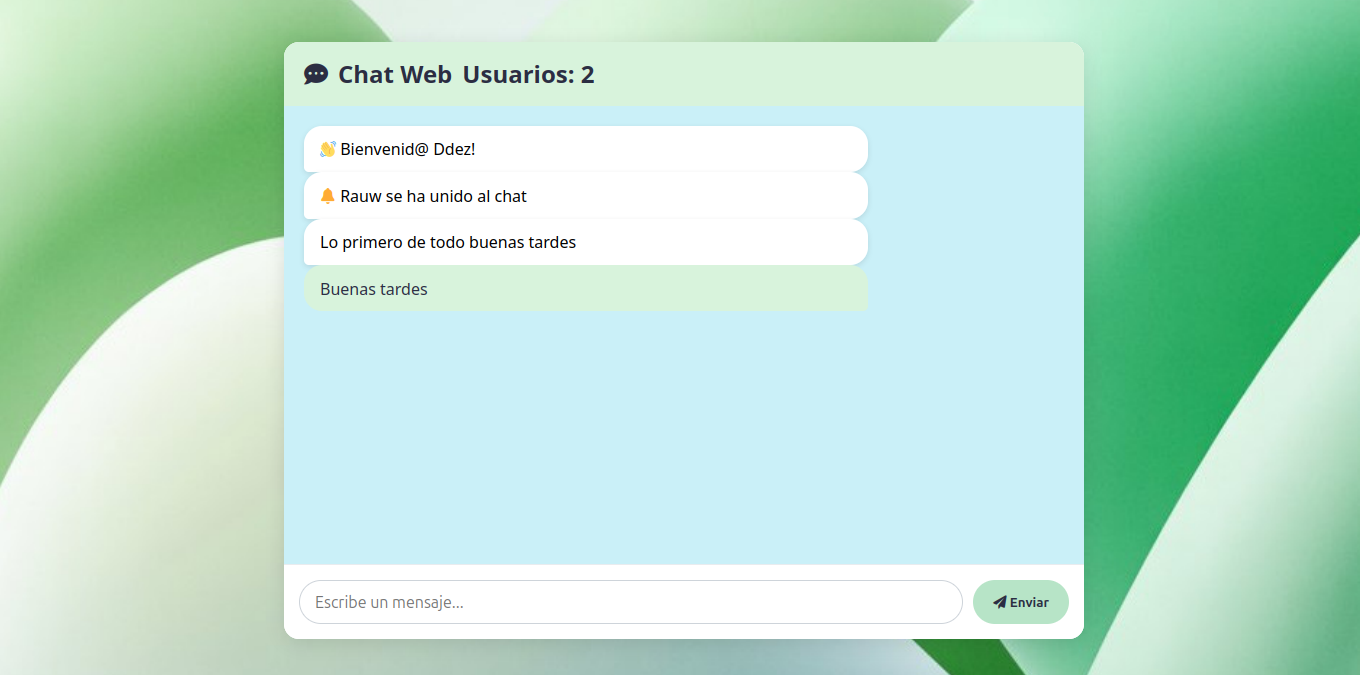
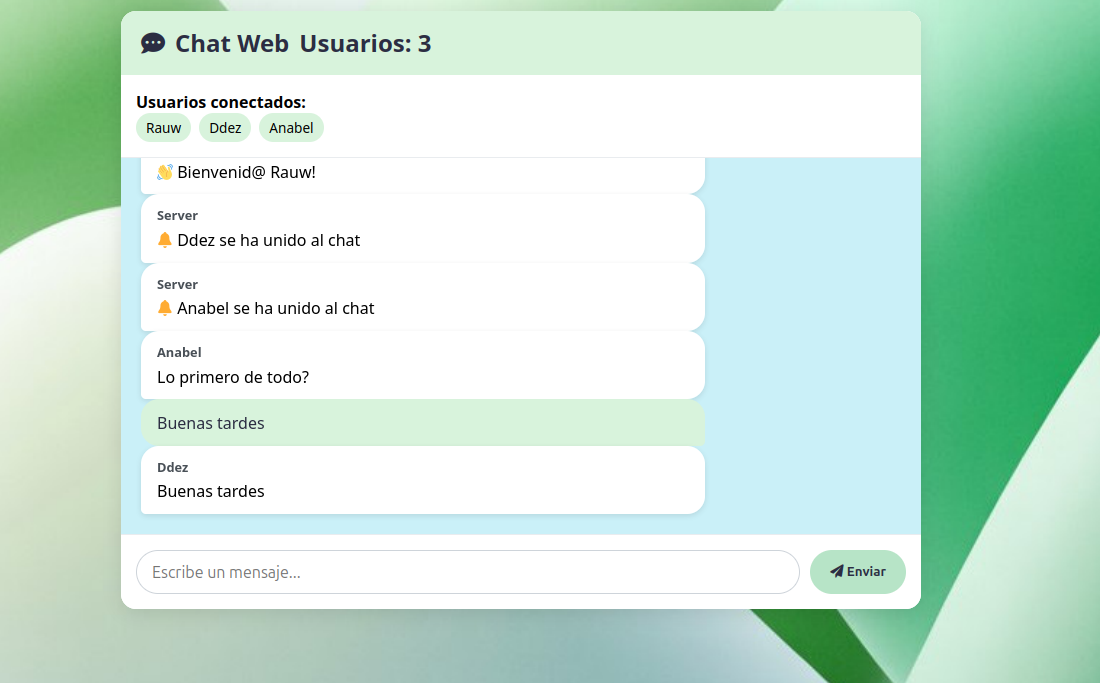
nombre usuarios

diff --git a/P3/public/index.html b/P3/public/index.html
@@ -21,14 +21,21 @@
             <button onclick="setNickname()">Confirmar</button>
         </div>
 
-        <div id="chat"></div>
+        <!-- Lista de usuarios conectados -->
+        <div id="user-list-container" style="display: none;">
+            <strong>Usuarios conectados:</strong>
+            <ul id="user-list"></ul>
+        </div>
+
+        <div id="chat" style="display: none;"></div>
         
-        <div class="input-container">
+        <div class="input-container" style="display: none;">
             <input id="message" placeholder="Escribe un mensaje..." autocomplete="off" />
             <button onclick="sendMessage()">
                 <i class="fas fa-paper-plane"></i> Enviar
             </button>
         </div>
+
         <div id="typing-status"></div>
     </div>
 
@@ -41,23 +48,26 @@
         const nicknameContainer = document.getElementById('nickname-container');
         const typingStatus = document.getElementById('typing-status');
         const onlineUsersElement = document.getElementById('online-users');
+        const userListElement = document.getElementById('user-list');
+        const userListContainer = document.getElementById('user-list-container');
+        const inputContainer = document.querySelector('.input-container');
         let userNickname = '';
         let typingTimeout;
 
-        // Enviar el nickname al servidor
         function setNickname() {
             const nickname = nicknameInput.value.trim();
             if (nickname) {
                 socket.emit('setNickname', nickname);
-                userNickname = nickname;  // Guardar el nickname del usuario
-                nicknameContainer.style.display = 'none'; // Ocultar el formulario de nickname
-                chat.style.display = 'block'; // Mostrar la sección del chat
+                userNickname = nickname;
+                nicknameContainer.style.display = 'none';
+                chat.style.display = 'block';
+                inputContainer.style.display = 'flex';
+                userListContainer.style.display = 'block';
             } else {
                 alert('Por favor, ingresa un nickname.');
             }
         }
 
-        // Enviar mensaje al servidor
         function sendMessage() {
             const msg = input.value.trim();
             if (msg) {
@@ -68,7 +78,6 @@
             }
         }
 
-        // Manejar cuando el usuario está escribiendo
         input.addEventListener('input', () => {
             if (input.value.trim()) {
                 socket.emit('typing');
@@ -85,19 +94,24 @@
             const messageDiv = document.createElement('div');
             messageDiv.className = 'message';
 
-            // Si el mensaje fue enviado por el propio usuario, lo alineamos a la derecha
             if (msg.sender === userNickname) {
-                messageDiv.classList.add('message-outgoing');  // Mensaje enviado por el cliente
+                messageDiv.classList.add('message-outgoing');
             } else {
-                messageDiv.classList.add('message-incoming');  // Mensaje recibido de otro usuario
+                messageDiv.classList.add('message-incoming');
+                const senderName = document.createElement('div');
+                senderName.textContent = msg.sender || 'Server';
+                senderName.className = 'sender-name';
+                messageDiv.appendChild(senderName);
             }
 
-            messageDiv.innerHTML = msg.text || msg;
+            const messageText = document.createElement('div');
+            messageText.textContent = msg.text || msg;
+            messageDiv.appendChild(messageText);
+
             chat.appendChild(messageDiv);
             chat.scrollTop = chat.scrollHeight;
         });
 
-        // Mostrar cuando alguien está escribiendo
         socket.on('userTyping', (nickname) => {
             typingStatus.textContent = `${nickname} está escribiendo...`;
             setTimeout(() => {
@@ -111,12 +125,19 @@
             typingStatus.textContent = '';
         });
 
-        // Actualizar contador de usuarios conectados
         socket.on('updateUsers', (count) => {
             onlineUsersElement.textContent = `Usuarios: ${count}`;
         });
 
-        // Auto-focus al cargar
+        socket.on('userList', (users) => {
+            userListElement.innerHTML = '';
+            users.forEach(user => {
+                const li = document.createElement('li');
+                li.textContent = user;
+                userListElement.appendChild(li);
+            });
+        });
+
         window.addEventListener('load', () => {
             nicknameInput.focus();
         });

diff --git a/P3/server.js b/P3/server.js
@@ -23,7 +23,6 @@ app.use((req, res, next) => {
     next();
 });
 
-// Ignora favicon
 app.get('/favicon.ico', (req, res) => res.status(204).end());
 
 const server = http.createServer(app);
@@ -33,15 +32,19 @@ let connectedUsers = 0;
 
 app.use(express.static('public'));
 
+// Emitir lista actual de nicknames a todos
+function emitUserList() {
+    const userList = Object.values(nicknames);
+    io.emit('userList', userList);
+}
+
 io.on('connection', (socket) => {
     connectedUsers++;
     io.emit('updateUsers', connectedUsers);
 
-    // Espera a que el cliente envíe su nickname
     socket.on('setNickname', (nickname) => {
         nicknames[socket.id] = nickname;
 
-        // Mensajes de bienvenida
         socket.emit('message', {
             type: 'system',
             text: `👋 Bienvenid@ ${nickname}!`
@@ -52,10 +55,10 @@ io.on('connection', (socket) => {
             text: `🔔 ${nickname} se ha unido al chat`
         });
 
+        emitUserList();
         io.emit('updateUsers', connectedUsers);
     });
 
-    // Manejar cuando un usuario está escribiendo
     socket.on('typing', () => {
         const nickname = nicknames[socket.id];
         if (nickname && !typingUsers.has(nickname)) {
@@ -64,7 +67,6 @@ io.on('connection', (socket) => {
         }
     });
 
-    // Manejar cuando un usuario deja de escribir
     socket.on('stopTyping', () => {
         const nickname = nicknames[socket.id];
         if (nickname && typingUsers.has(nickname)) {
@@ -73,7 +75,6 @@ io.on('connection', (socket) => {
         }
     });
 
-    // Maneja mensajes normales o comandos
     socket.on('chatMessage', (msg) => {
         const nickname = nicknames[socket.id] || 'Anónimo';
 
@@ -102,7 +103,7 @@ io.on('connection', (socket) => {
                     break;
                 case '/dado':
                     const dado = Math.floor(Math.random() * 6) + 1;
-                    response = `🎲 Tiraste el dado y salió: ${dado} ${'⚀⚁⚂⚃⚄⚅'.split('')[dado-1]}`;
+                    response = `🎲 Tiraste el dado y salió: ${dado} ${'⚀⚁⚂⚃⚄⚅'.split('')[dado - 1]}`;
                     break;
                 case '/fiesta':
                     response = '🎊🎉🎈 ¡FIESTA! 🎈🎉🎊\n¡Todos a bailar! 💃🕺\n┏(＾0＾)┛┗(＾0＾)┓';
@@ -132,7 +133,7 @@ io.on('connection', (socket) => {
         const nickname = nicknames[socket.id] || 'Un usuario';
         delete nicknames[socket.id];
         connectedUsers--;
-        
+
         if (typingUsers.has(nickname)) {
             typingUsers.delete(nickname);
             io.emit('userStopTyping');
@@ -142,7 +143,8 @@ io.on('connection', (socket) => {
             type: 'system',
             text: `🚪 ${nickname} ha salido del chat`
         });
-        
+
+        emitUserList();
         io.emit('updateUsers', connectedUsers);
     });
 });

diff --git a/P3/public/styles.css b/P3/public/styles.css
@@ -15,7 +15,7 @@ body {
     display: flex;
     justify-content: center;
     align-items: center;
-    min-height: 100vh;
+    min-height: 80vh;
     background-image: url('/fondorec.jpeg');
     background-size: cover;
     background-repeat: no-repeat;
@@ -44,6 +44,14 @@ body {
     display: flex;
     align-items: center;
     gap: 10px;
+}
+
+/* Nuevo contenedor flexible para chat y lista de usuarios */
+.chat-content {
+    display: flex;
+    flex-direction: column;
+    flex-grow: 1;
+    overflow: hidden;
 }
 
 #chat {
@@ -231,7 +239,7 @@ button:hover {
     background-color: var(--pastel-green);
     transform: translateY(-2px);
 }
-/* Añade estos estilos */
+
 .chat-info {
     background-color: var(--pastel-green-dark);
     padding: 8px 20px;
@@ -241,12 +249,14 @@ button:hover {
     color: var(--text-dark);
 }
 
+/* Lista de usuarios modificada */
 #user-list-container {
     background-color: white;
     padding: 15px;
     border-bottom: 1px solid #e9ecef;
     max-height: 150px;
     overflow-y: auto;
+    flex-shrink: 0; /* Evita que se encoja */
 }
 
 #user-list-container h3 {
@@ -273,4 +283,11 @@ button:hover {
 #typing-status {
     font-style: italic;
     color: #6c757d;
+}
+
+.sender-name {
+    font-size: 0.8rem;
+    font-weight: bold;
+    margin-bottom: 4px;
+    color: #495057;
 }
